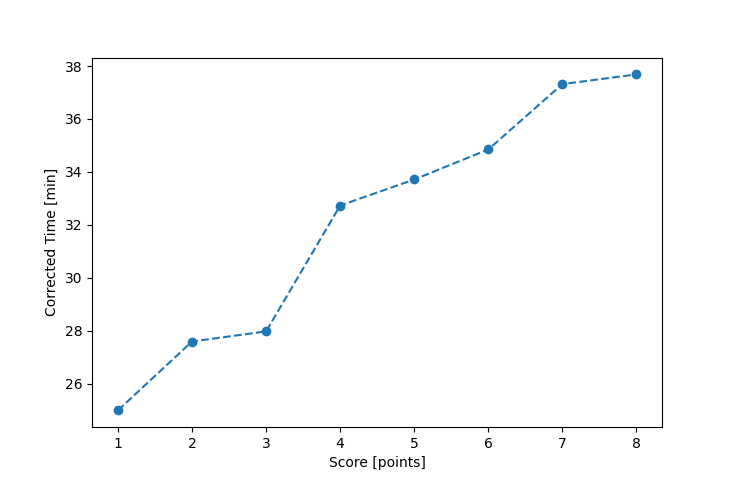
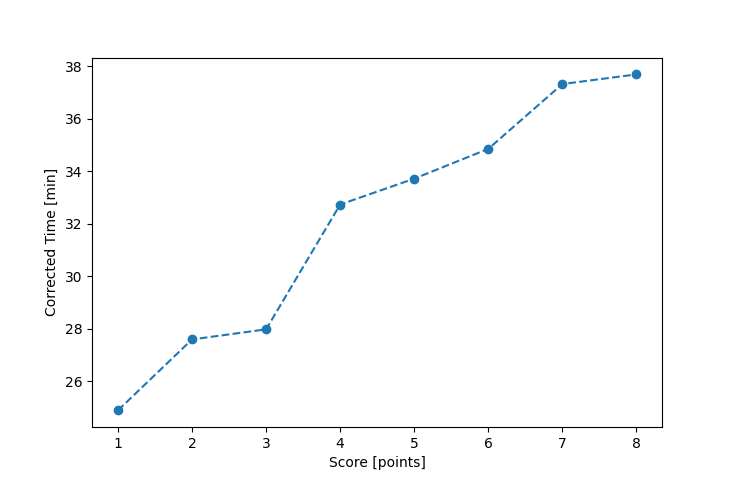
Deploying to gh-pages from @ cessnao3/PortsmouthRaceCalc@eedfaab130b8b125399db41cc3cef31f57b5bf89 🚀

diff --git a/series/2025_season_total/index.html b/series/2025_season_total/index.html
@@ -4476,15 +4476,15 @@
             >
         </td>
         
-        <td>25:06</td>
+        <td>25:00</td>
         <td>00:00</td>
-        <td>25:06</td>
-        <td>1506</td>
+        <td>25:00</td>
+        <td>1500</td>
         <td>
             1.00400
         </td>
-        <td>1500</td>
-        <td>25:00</td>
+        <td>1494</td>
+        <td>24:54</td>
         
     </tr>
         

diff --git a/series/2025_series_2/index.html b/series/2025_series_2/index.html
@@ -2305,15 +2305,15 @@
             >
         </td>
         
-        <td>25:06</td>
+        <td>25:00</td>
         <td>00:00</td>
-        <td>25:06</td>
-        <td>1506</td>
+        <td>25:00</td>
+        <td>1500</td>
         <td>
             1.00400
         </td>
-        <td>1500</td>
-        <td>25:00</td>
+        <td>1494</td>
+        <td>24:54</td>
         
     </tr>
         

diff --git a/series/2025_season_total/race_20.html b/series/2025_season_total/race_20.html
@@ -78,15 +78,15 @@
             >
         </td>
         
-        <td>25:06</td>
+        <td>25:00</td>
         <td>00:00</td>
-        <td>25:06</td>
-        <td>1506</td>
+        <td>25:00</td>
+        <td>1500</td>
         <td>
             1.00400
         </td>
-        <td>1500</td>
-        <td>25:00</td>
+        <td>1494</td>
+        <td>24:54</td>
         
     </tr>
         

diff --git a/series/2025_series_2/race_6.html b/series/2025_series_2/race_6.html
@@ -78,15 +78,15 @@
             >
         </td>
         
-        <td>25:06</td>
+        <td>25:00</td>
         <td>00:00</td>
-        <td>25:06</td>
-        <td>1506</td>
+        <td>25:00</td>
+        <td>1500</td>
         <td>
             1.00400
         </td>
-        <td>1500</td>
-        <td>25:00</td>
+        <td>1494</td>
+        <td>24:54</td>
         
     </tr>
         

diff --git a/index.html b/index.html
@@ -364,7 +364,7 @@
         </ul>
 
         <h2>Notes</h2>
-        <p>Compiled on: August 24, 2025 at 23:42:59 UTC</p>
+        <p>Compiled on: August 24, 2025 at 23:59:54 UTC</p>
 
         <p>
     <p><b>Application Notes:</b></p>
